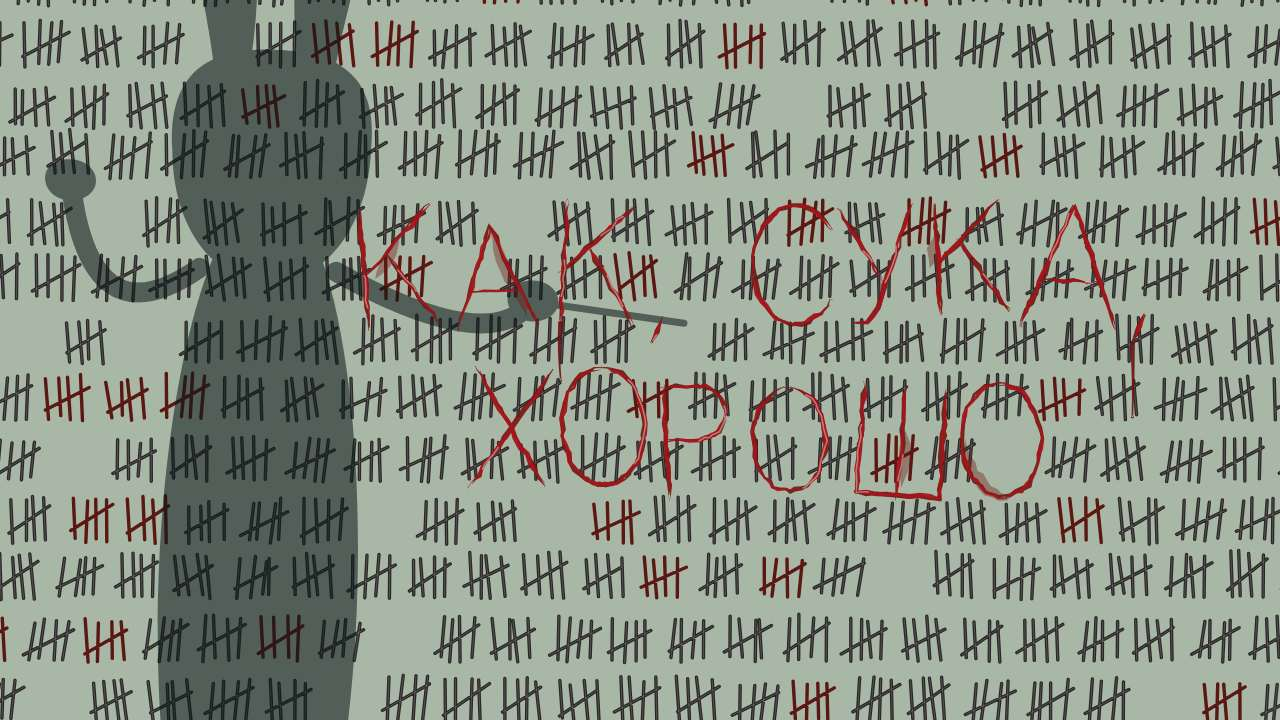
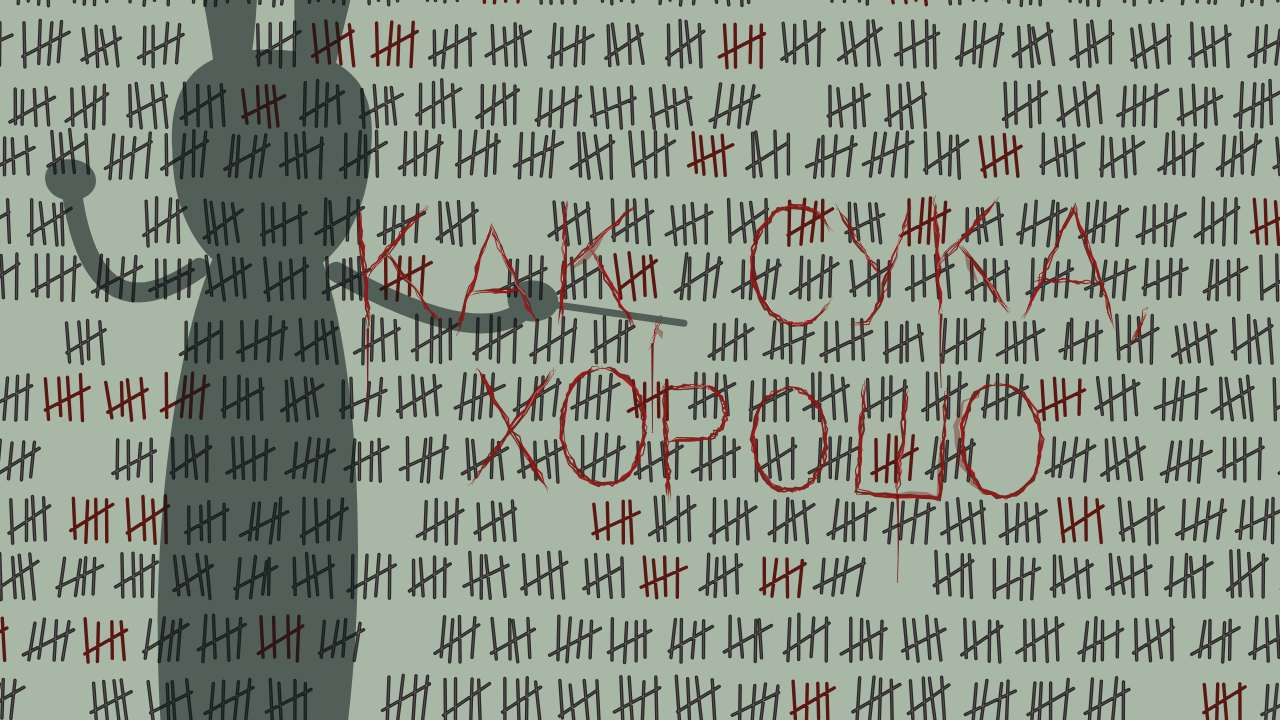
feat: scratched strokes are bundles of three or four pencil-thin passes
Each pass is about a quarter of the old wet line's width and wavers
further off the stroke, so the wall shows between the passes of a bundle.

Claude-Session: https://claude.ai/code/session_01MZoAKBLUod263MnDXVYSWV

diff --git a/src/clip/shared/lettering/scratched.ts b/src/clip/shared/lettering/scratched.ts
@@ -32,7 +32,7 @@ function scratchesFor(
 }
 
 // A scratch's full width at full pressure, in cap heights: what `weight` sets.
-const SCRATCH_WEIGHT = 0.05;
+const SCRATCH_WEIGHT = 0.026;
 
 /** The shapes of one frame's writing, one list per colour. */
 type Marks = {
@@ -138,7 +138,7 @@ function fillAll(
 
 /**
  * Scratched into wall paint with a fingernail and filled with blood, as with
- * a pencil: each stroke a bundle of two or three thin scratches, pressed
+ * a pencil: each stroke a bundle of three or four thin scratches, pressed
  * unevenly, mostly dried brown with one fresher red, the plaster showing in
  * patches, a thumb's smear on a few, drips off the low end of some verticals.
  * A drip runs as the hand writes on past its stroke, and `bleed` in `[0, 1]`

diff --git a/src/clip/shared/lettering/scratch-marks.test.ts b/src/clip/shared/lettering/scratch-marks.test.ts
@@ -7,11 +7,11 @@ import { pressureAt, ribbon, scratchesOf, stretchOf } from './scratch-marks';
 describe('scratchesOf', () => {
   const layout = layOut('ХОРОШО', { letterHeight: 100 });
 
-  it('goes over every stroke two or three times, one pass fresh', () => {
+  it('goes over every stroke three or four times, one pass fresh', () => {
     const scratches = scratchesOf(layout, 100, 3);
     assert.equal(scratches.length, layout.strokes.length);
     for (const { passes } of scratches) {
-      assert.ok(passes.length === 2 || passes.length === 3);
+      assert.ok(passes.length === 3 || passes.length === 4);
       assert.equal(passes.filter(({ stillWet }) => stillWet).length, 1);
     }
   });

diff --git a/src/clip/shared/lettering/scratch-marks.ts b/src/clip/shared/lettering/scratch-marks.ts
@@ -36,7 +36,7 @@ export type Scratch = {
 };
 
 // How far a pass wavers off the stroke, and how far its ends wander, in cap heights.
-const PASS_WAVER = 0.035;
+const PASS_WAVER = 0.05;
 const ENDS_WANDER = 0.09;
 
 /** `points` cut into short pieces, each joint nudged by up to `amplitude`. */
@@ -105,7 +105,7 @@ export function scratchesOf(
 ): Scratch[] {
   const random = rng(seed);
   return layout.strokes.map(({ points }) => {
-    const count = random() < 0.5 ? 2 : 3;
+    const count = random() < 0.5 ? 3 : 4;
     const freshOne = Math.floor(random() * count);
     const total = lengthOf(points);
     const wander = () => (random() - 0.35) * size * ENDS_WANDER;
